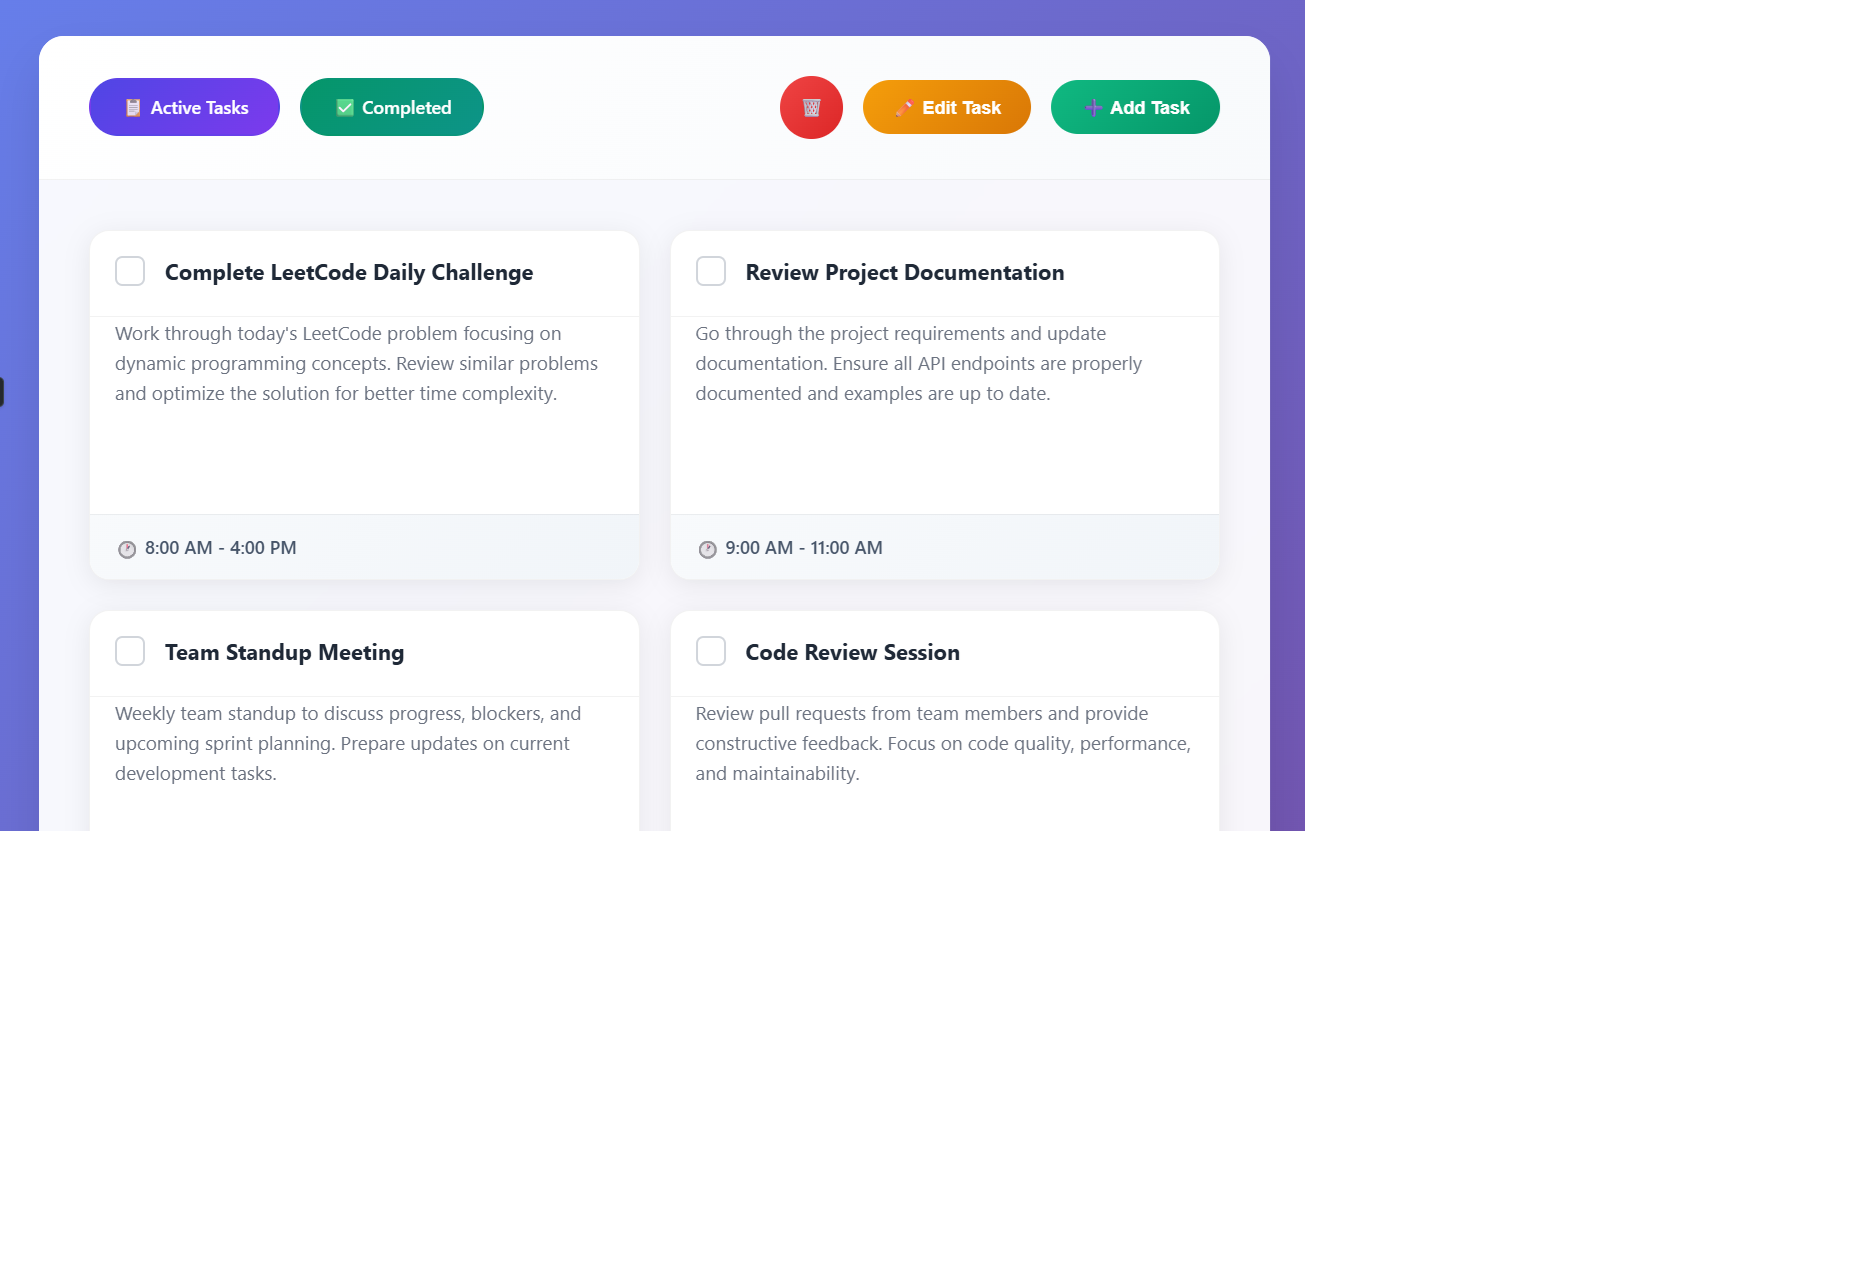
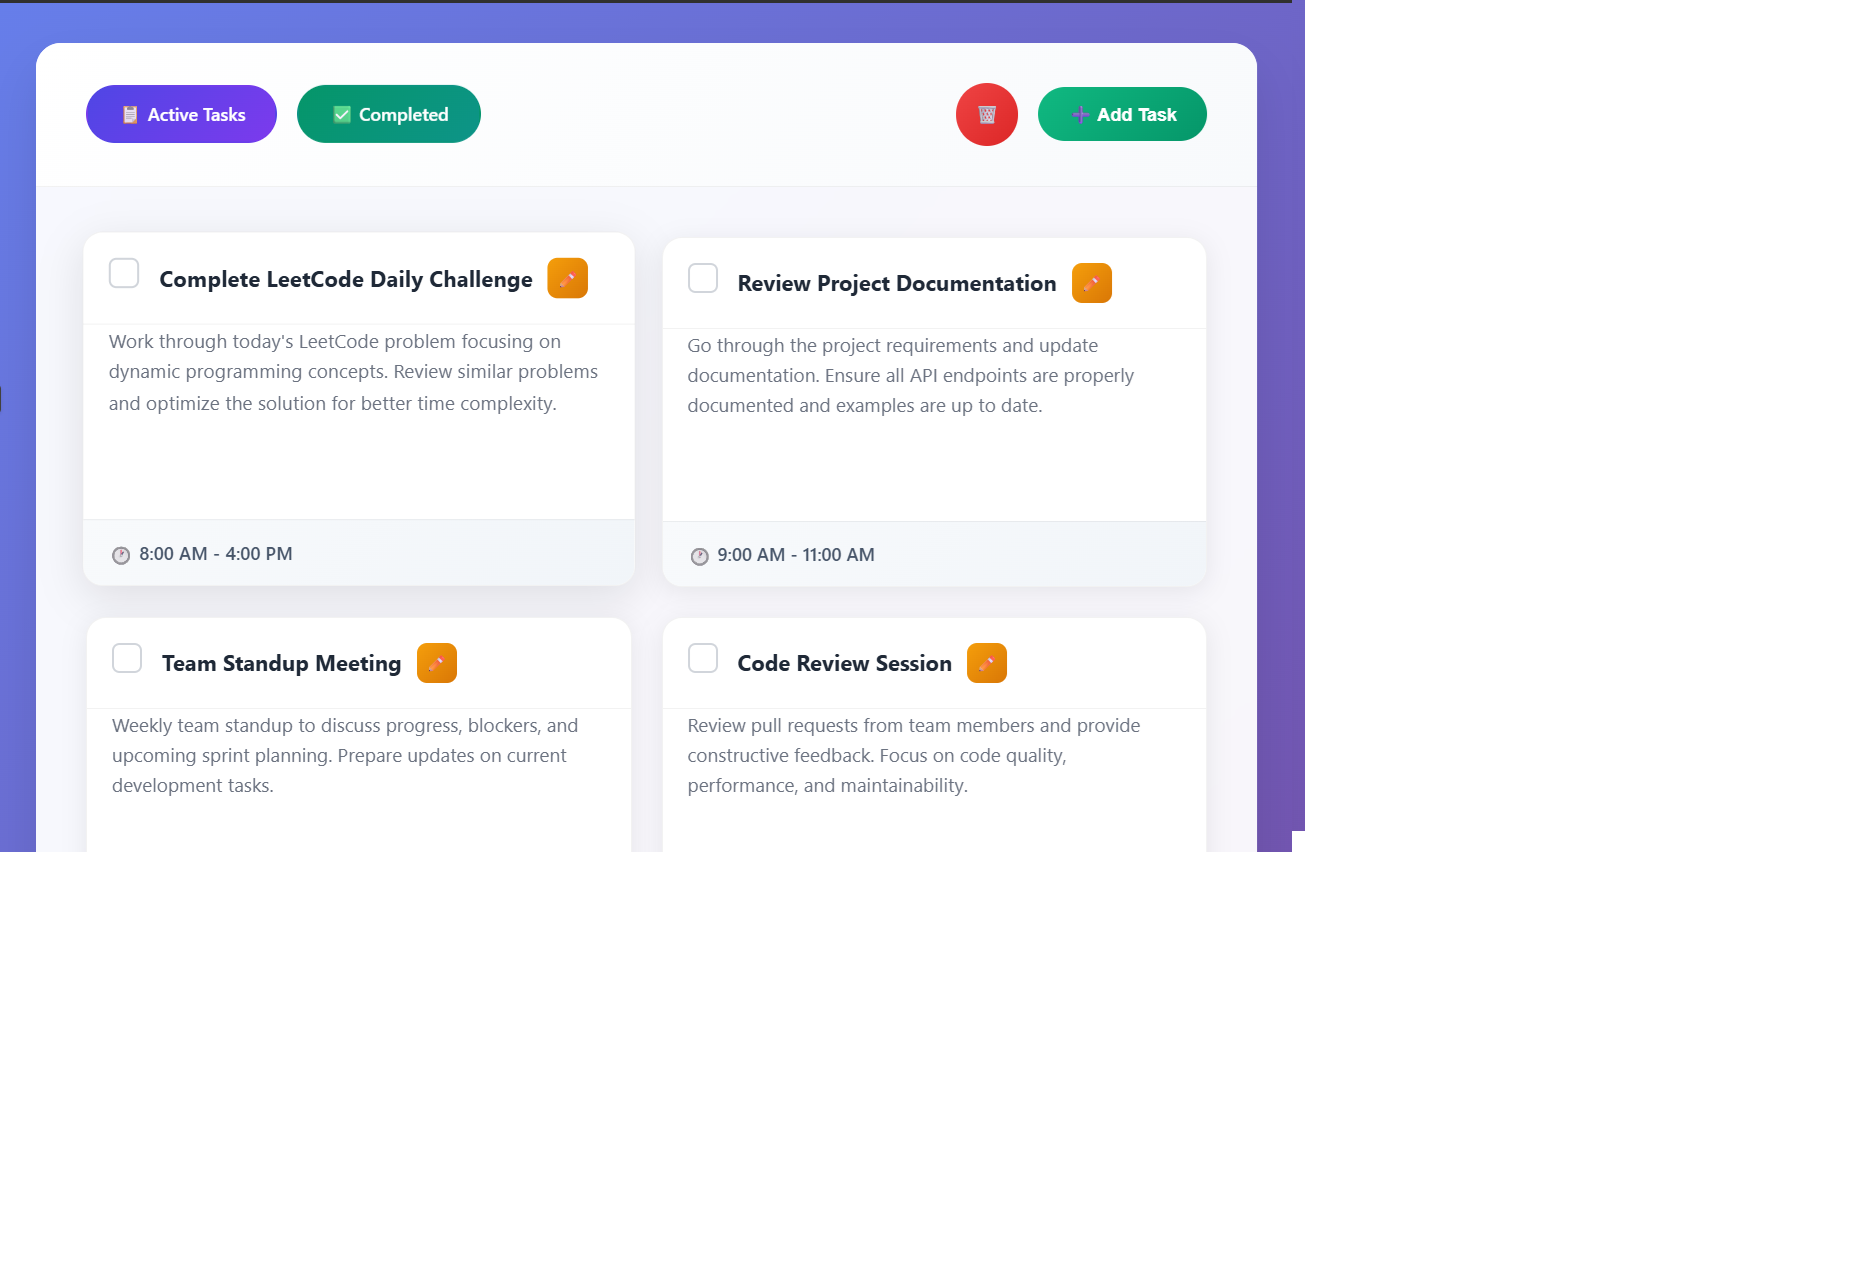
Improving UI

diff --git a/html/homepage.html b/html/homepage.html
@@ -11,24 +11,25 @@
       <div class="status">
         <div class="active-task">
           <p>
-            Active Tasks
+            📋 Active Tasks
           </p>
         </div>
         <div class="completed-task">
           <p>
-            Completed
+            ✅ Completed
           </p>
         </div>
       </div>
       <div class="operations">
         <div class="delete-task">
-          <img alt="">
-        </div>
-        <div class="edit-task">
-          <p>Edit Task</p>
+          <p>
+            🗑
+          </p>
         </div>
         <div class="add-task">
-          <p>Add Task</p>
+          <p>
+            ➕ Add Task
+          </p>
         </div>
       </div>
     </header>
@@ -44,10 +45,12 @@
           </div>
         </div>
         <div class="description">
-          <p>Lorem ipsum dolor sit amet, consectetur adipiscing elit. Sed euismod, urna eu tincidunt consectetur, nisi nunc gravida augue, nec tempor justo ipsum ac ligula. blidfb sdiobsdui ohsdioh d9hdfhd ifhd hd9h9 sd98h98h38 90if hsd9 h9wuf89wd f890wdhf98weh89we hf80wehf89dh9i908dsh89f hsd9f hs9 fhsd 9iofqwejioc fwe09 rh9824qh98h9rhd9</p>
+          <p>
+            Lorem ipsum dolor sit amet, consectetur adipiscing elit. Sed euismod, urna eu tincidunt consectetur, nisi nunc gravida augue, nec tempor justo ipsum ac ligula.
+          </p>
         </div>
         <div class="time">
-          <p>8:00 AM to 4:00 PM</p>
+          <p>🕐 8:00 AM - 4:00 PM</p>
         </div>
       </div>
       <div class="task">
@@ -60,10 +63,10 @@
           </div>
         </div>
         <div class="description">
-          <p>Lorem ipsum dolor sit amet, consectetur adipiscing elit. Sed euismod, urna eu tincidunt consectetur, nisi nunc gravida augue, nec tempor justo ipsum ac ligula. blidfb sdiobsdui ohsdioh d9hdfhd ifhd hd9h9 sd98h98h38 90if hsd9 h9wuf89wd f890wdhf98weh89we hf80wehf89dh9i908dsh89f hsd9f hs9 fhsd 9iofqwejioc fwe09 rh9824qh98h9rhd9</p>
+          <p>Lorem ipsum dolor sit amet, consectetur adipiscing elit. Sed euismod, urna eu tincidunt consectetur, nisi nunc gravida augue, nec tempor justo ipsum ac ligula.</p>
         </div>
         <div class="time">
-          <p>8:00 AM to 4:00 PM</p>
+          <p>🕐 8:00 AM - 4:00 PM</p>
         </div>
       </div>
       <div class="task">
@@ -76,10 +79,10 @@
           </div>
         </div>
         <div class="description">
-          <p>Lorem ipsum dolor sit amet, consectetur adipiscing elit. Sed euismod, urna eu tincidunt consectetur, nisi nunc gravida augue, nec tempor justo ipsum ac ligula. blidfb sdiobsdui ohsdioh d9hdfhd ifhd hd9h9 sd98h98h38 90if hsd9 h9wuf89wd f890wdhf98weh89we hf80wehf89dh9i908dsh89f hsd9f hs9 fhsd 9iofqwejioc fwe09 rh9824qh98h9rhd9</p>
+          <p>Lorem ipsum dolor sit amet, consectetur adipiscing elit. Sed euismod, urna eu tincidunt consectetur, nisi nunc gravida augue, nec tempor justo ipsum ac ligula.</p>
         </div>
         <div class="time">
-          <p>8:00 AM to 4:00 PM</p>
+          <p>🕐 8:00 AM - 4:00 PM</p>
         </div>
       </div>
       <div class="task">
@@ -92,10 +95,10 @@
           </div>
         </div>
         <div class="description">
-          <p>Lorem ipsum dolor sit amet, consectetur adipiscing elit. Sed euismod, urna eu tincidunt consectetur, nisi nunc gravida augue, nec tempor justo ipsum ac ligula. blidfb sdiobsdui ohsdioh d9hdfhd ifhd hd9h9 sd98h98h38 90if hsd9 h9wuf89wd f890wdhf98weh89we hf80wehf89dh9i908dsh89f hsd9f hs9 fhsd 9iofqwejioc fwe09 rh9824qh98h9rhd9</p>
+          <p>Lorem ipsum dolor sit amet, consectetur adipiscing elit. Sed euismod, urna eu tincidunt consectetur, nisi nunc gravida augue, nec tempor justo ipsum ac ligula.</p>
         </div>
         <div class="time">
-          <p>8:00 AM to 4:00 PM</p>
+          <p>🕐 8:00 AM - 4:00 PM</p>
         </div>
       </div>
       <div class="task">
@@ -108,10 +111,10 @@
           </div>
         </div>
         <div class="description">
-          <p>Lorem ipsum dolor sit amet, consectetur adipiscing elit. Sed euismod, urna eu tincidunt consectetur, nisi nunc gravida augue, nec tempor justo ipsum ac ligula. blidfb sdiobsdui ohsdioh d9hdfhd ifhd hd9h9 sd98h98h38 90if hsd9 h9wuf89wd f890wdhf98weh89we hf80wehf89dh9i908dsh89f hsd9f hs9 fhsd 9iofqwejioc fwe09 rh9824qh98h9rhd9</p>
+          <p>Lorem ipsum dolor sit amet, consectetur adipiscing elit. Sed euismod, urna eu tincidunt consectetur, nisi nunc gravida augue, nec tempor justo ipsum ac ligula. Lorem ipsum dolor sit amet, consectetur adipiscing elit. Sed euismod, urna eu tincidunt consectetur, nisi nunLorem ipsum dolor sit amet, consectetur adipiscing elit. Sed euismod, urna eu tincidunt consectetur, nisi nunc gravida augue, nec tempor justo ipsum ac ligula.</p>
         </div>
         <div class="time">
-          <p>8:00 AM to 4:00 PM</p>
+          <p>🕐 8:00 AM - 4:00 PM</p>
         </div>
       </div>
       <div class="task">
@@ -124,10 +127,10 @@
           </div>
         </div>
         <div class="description">
-          <p>Lorem ipsum dolor sit amet, consectetur adipiscing elit. Sed euismod, urna eu tincidunt consectetur, nisi nunc gravida augue, nec tempor justo ipsum ac ligula. blidfb sdiobsdui ohsdioh d9hdfhd ifhd hd9h9 sd98h98h38 90if hsd9 h9wuf89wd f890wdhf98weh89we hf80wehf89dh9i908dsh89f hsd9f hs9 fhsd 9iofqwejioc fwe09 rh9824qh98h9rhd9</p>
+          <p>Lorem ipsum dolor sit amet, consectetur adipiscing elit. Sed euismod, urna eu tincidunt consectetur, nisi nunc gravida augue, nec tempor justo ipsum ac ligula.</p>
         </div>
         <div class="time">
-          <p>8:00 AM to 4:00 PM</p>
+          <p>🕐 8:00 AM - 4:00 PM</p>
         </div>
       </div>
     </main>

diff --git a/css/styles.css b/css/styles.css
@@ -22,7 +22,7 @@ main {
   row-gap: 25px;
   padding: 50px 35px;
   border-radius: 0 0 25px 25px;
-  background-color: #F7F8FD;
+  background-color: #F4F3F8;
 }
 
 input {
@@ -32,13 +32,39 @@ input {
   border-radius: 5px;
 }
 
-.active-task, .completed-task, .delete-task, .edit-task, .add-task {
+.active-task, .completed-task, .delete-task, .add-task {
+  display: flex;
   cursor: pointer;
+  justify-content: center;
+  align-items: center;
+  font-weight: bold;
+  color: white;
+}
+
+.active-task, .completed-task, .add-task {
   font-size: 20px;
   border-radius: 50px;
   width: 175px;
   white-space: nowrap;
-  text-align: center;
+}
+
+.active-task {
+  background: linear-gradient(135deg, #4f46e5, #7c3aed);
+}
+
+.completed-task {
+  background: linear-gradient(135deg, #059669, #0d9488);
+}
+
+.delete-task {
+  border-radius: 50%;
+  width: 70px;
+  height: 70px;
+  background: linear-gradient(135deg, #ef4444, #dc2626);
+}
+
+.add-task {
+  background: linear-gradient(135deg, #facc15, #eab308);
 }
 
 .title {
@@ -52,8 +78,7 @@ input {
 }
 
 .status div {
-  border: solid 1px black;
-  margin-left: 80px;
+  margin-left: 40px;
 }
 
 .operations {
@@ -63,27 +88,25 @@ input {
 }
 
 .operations div {
-  margin-right: 80px;
-  border: solid 1px black;
-}
-
-.delete-task {
-  width: 50px;
+  margin-right: 40px;
 }
 
 .task {
-  border: solid 1px black;
+  box-shadow: 0 4px 20px rgba(0, 0, 0, 0.08);
+  overflow: hidden;
+  border: 1px solid rgba(0, 0, 0, 0.05);
   border-radius: 10px;
   height: 250px;
   display: flex;
   flex-direction: column;
-  overflow: hidden;
+  background-color: white;
 }
 
 
 .task-operations {
   height: 50px;
   padding: 10px 10px;
+  border-bottom: solid 3px #F1F5F9;
 }
 
 .title {
@@ -91,22 +114,30 @@ input {
   text-overflow: ellipsis;
   white-space: nowrap;
   padding-right: 10px;
+  color: #1f2937;
+  font-size: 18px;
 }
 
 .description {
   align-items: normal;
-  height: 150px;
-  font-size: 18px;
-  padding: 10px;
+  height: 165px;
+  font-size: 15px;
+  padding: 0px 10px 10px;
   line-height: 1.2;
-  overflow: hidden;
   text-overflow: ellipsis;
+  color: #6b7280;
+  display: -webkit-box;
+  -webkit-line-clamp: 6;
+  -webkit-box-orient: vertical;
+  overflow: hidden;
 }
 
 .time {
   height: 50px;
-  font-size: 20px;
+  font-size: 16px;
   padding-left: 10px;
+  color: #475569;
+  background-color: #F1F5F9;
 }
 
 .task-operations, .time {
